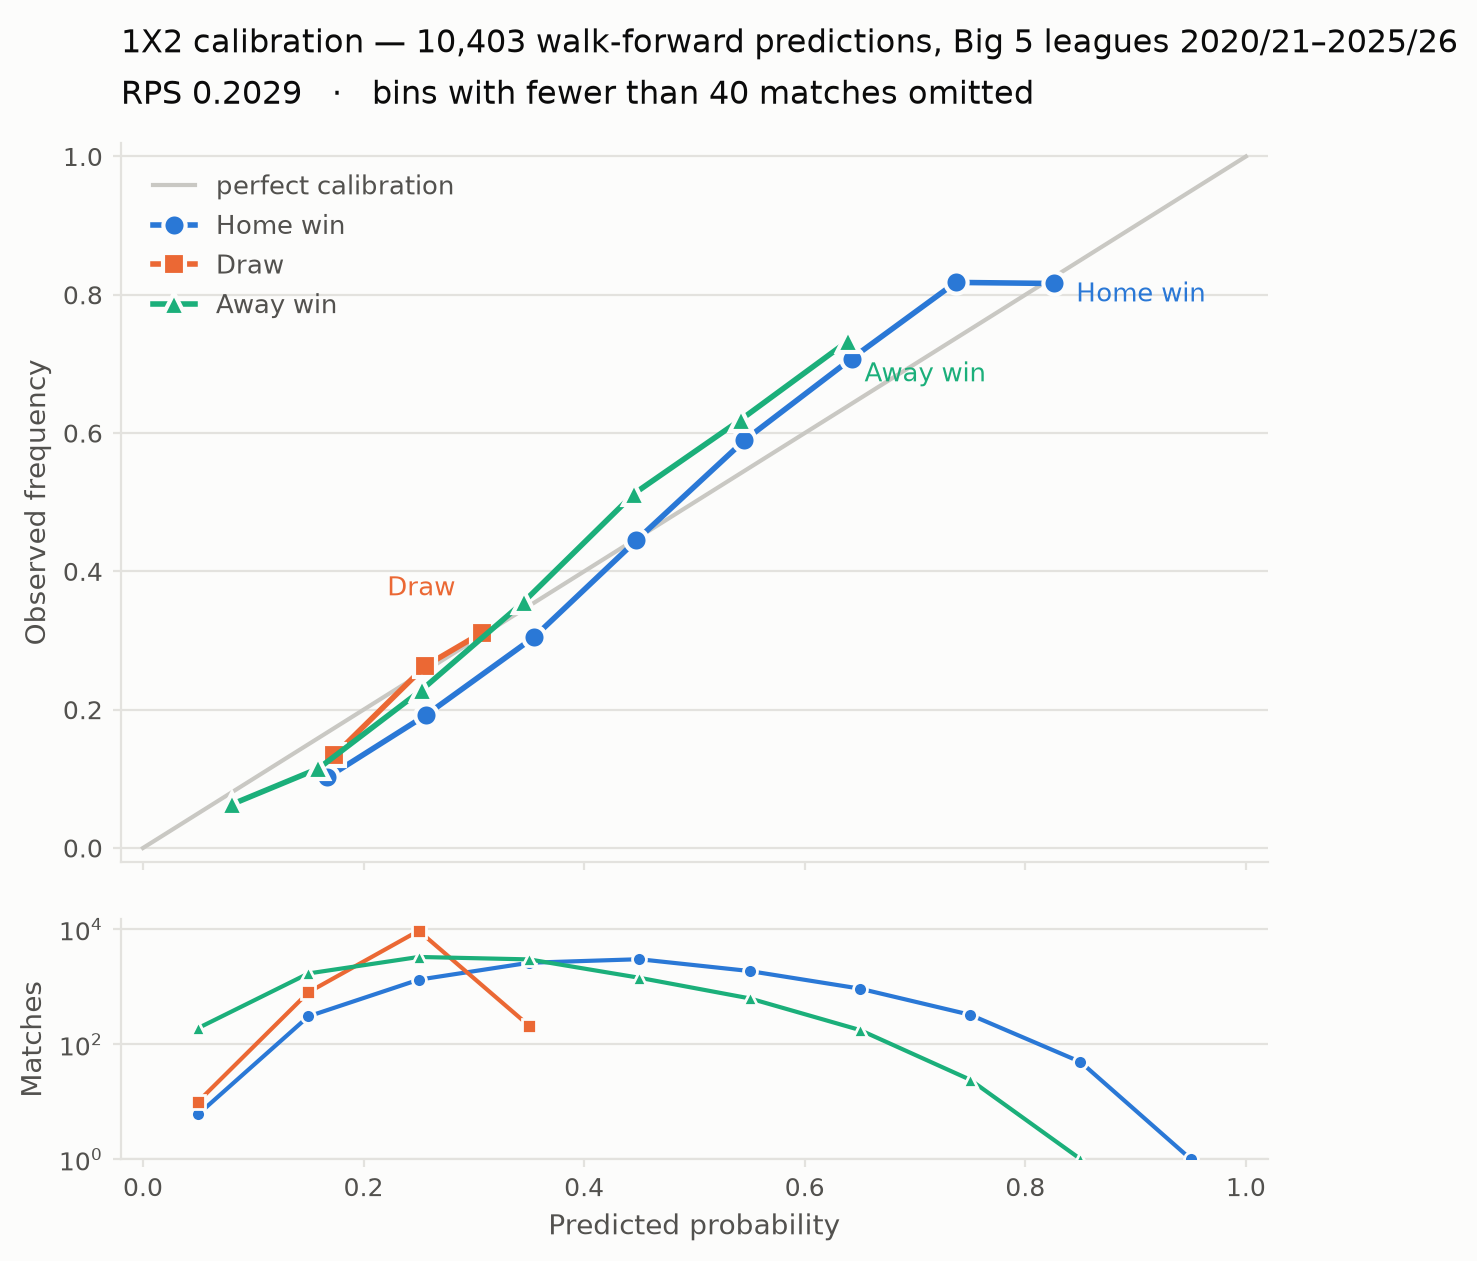
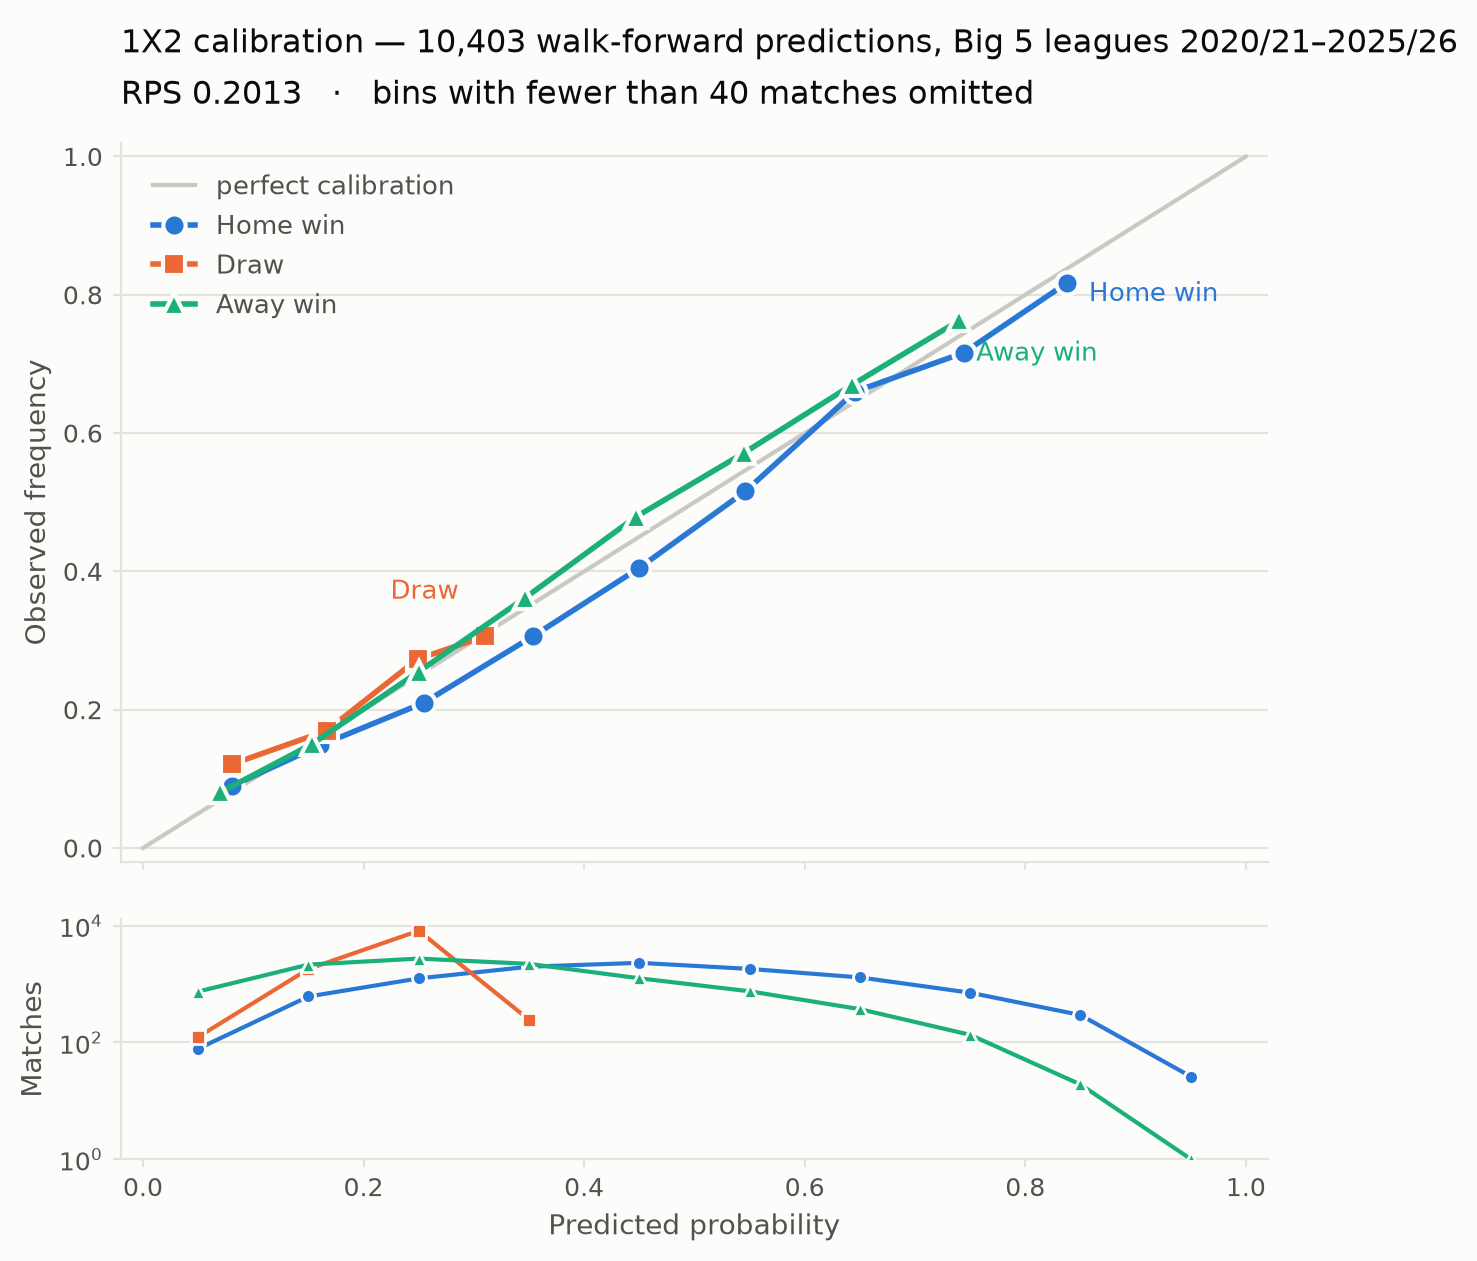
Benchmark the DEPLOYED model, not the bare engine — headline RPS 0.2025 -> 0.2008
benchmark_vs_bet365.py and plot_calibration.py now read the deployed walk-forward
cache (full served config: sharpen 1.3, lambda rescale, outcome_rho -0.06,
goal_temper 1.05) instead of the bare walkforward_preds.csv, which the
calibration FITTING still needs. The old headline understated what the app
serves.

Verified numbers (10,080 matches vs Bet365 closing / 10,403 walk-forward):
  1X2 RPS 0.2025 -> 0.2008 (gap +0.0080 -> +0.0062), covers 78% -> 83% of the
  base-rate-to-closing span; 1X2 LL 0.9933 -> 0.9881; O/U2.5 LL 0.6806 -> 0.6795;
  reliability-figure RPS 0.2029 -> 0.2013. README and the figure updated to match.

diff --git a/scripts/benchmark_vs_bet365.py b/scripts/benchmark_vs_bet365.py
@@ -18,7 +18,12 @@ import pandas as pd
 
 ROOT = Path(__file__).resolve().parents[1]
 FOUND = ROOT / "data/processed/foundation_big5_multi_season.csv"
-PREDS = ROOT / "data/processed/enriched/understat_xg/walkforward_preds.csv"
+# The DEPLOYED walk-forward cache (full served config: sharpen 1.3, lambda
+# rescale, outcome_rho -0.06, goal_temper 1.05), not the bare walkforward_preds.csv
+# that the calibration FITTING reads — benchmarking the bare engine would
+# understate what the app actually serves. Regenerate with
+# scripts/generate_deployed_walkforward.py.
+PREDS = ROOT / "data/processed/enriched/understat_xg/walkforward_preds_deployed.csv"
 WANT = {"Date", "HomeTeam", "AwayTeam", "B365H", "B365D", "B365A",
         "B365CH", "B365CD", "B365CA", "B365>2.5", "B365<2.5", "B365C>2.5", "B365C<2.5"}
 

diff --git a/scripts/plot_calibration.py b/scripts/plot_calibration.py
@@ -19,7 +19,9 @@ import numpy as np
 import pandas as pd
 
 ROOT = Path(__file__).resolve().parents[1]
-PREDS = ROOT / "data/processed/enriched/understat_xg/walkforward_preds.csv"
+# The DEPLOYED cache (full served config), same file the Bet365 benchmark reads,
+# so the picture and the headline RPS describe the model the app actually serves.
+PREDS = ROOT / "data/processed/enriched/understat_xg/walkforward_preds_deployed.csv"
 OUT = ROOT / "docs/img/calibration_1x2.png"
 
 # dataviz reference palette, categorical slots 1-3 (validated all-pairs, light)

diff --git a/README.md b/README.md
@@ -33,29 +33,31 @@ Where the engine sits, in ranked probability score (lower is better):
 |---|---|
 | Uniform 1/3 — no information at all | 0.2356 |
 | League base rates — home advantage only | 0.2308 |
-| **This engine** | **0.2025** |
+| **This engine** | **0.2008** |
 | Bet365 closing odds | 0.1946 |
 
 Between knowing nothing and the best-informed price on the market there is
-0.0362 of RPS. **The engine covers 78% of it.**
+0.0362 of RPS. **The engine covers 83% of it.**
 
 Head to head with the closing line:
 
 | | RPS (1X2) | Log loss (1X2) | Log loss (O/U 2.5) |
 |---|---|---|---|
-| This engine | 0.2025 | 0.9933 | 0.6806 |
+| This engine | 0.2008 | 0.9881 | 0.6795 |
 | Bet365 closing | **0.1946** | **0.9680** | **0.6710** |
-| gap | +0.0080 | +0.0253 | +0.0095 |
+| gap | +0.0062 | +0.0201 | +0.0085 |
 
-It does **not** beat the closing line — about 4% behind, and the gap holds in
-every season and every league (worst Premier League +0.0099, best Bundesliga
-+0.0060), which is what makes it a ceiling rather than noise. Bet365's closing
-price carries injury news, confirmed lineups and the weight of informed money;
-this engine has public data and nothing else.
+It does **not** beat the closing line — about 3% behind, and the gap holds in
+every season and every league (worst Premier League +0.0083, best Bundesliga and
+LaLiga +0.0039), which is what makes it a ceiling rather than noise. Bet365's
+closing price carries injury news, confirmed lineups and the weight of informed
+money; this engine has public data and nothing else.
 
-Reproduce all of it:
+Reproduce all of it (the benchmark scores the deployed walk-forward cache, so
+generate it first):
 
 ```bash
+python scripts/generate_deployed_walkforward.py   # writes the deployed cache
 python scripts/benchmark_vs_bet365.py
 ```
 
@@ -69,7 +71,7 @@ the time is another. It is:
 Home and away curves track the diagonal across the whole range. Draws never get
 predicted above ~35% — a known property of the sport, not a defect: draws are
 genuinely rarely the favourite. The figure scores all 10,403 walk-forward
-predictions, so its RPS reads 0.2029; the benchmark above uses the 10,080 of them
+predictions, so its RPS reads 0.2013; the benchmark above uses the 10,080 of them
 that have Bet365 odds attached. Regenerate with
 `python scripts/plot_calibration.py`.
 
@@ -140,7 +142,7 @@ Recorded because negative results are the expensive part of the project:
 
 ## Conclusions
 
-- **The club engine works.** Calibrated 1X2 probabilities, 78% of the way from
+- **The club engine works.** Calibrated 1X2 probabilities, 83% of the way from
   an uninformed baseline to the closing line, validated out-of-sample in time.
   That is the part with an external yardstick behind it.
 - **As a betting edge, it does not.** That question was asked properly and the
